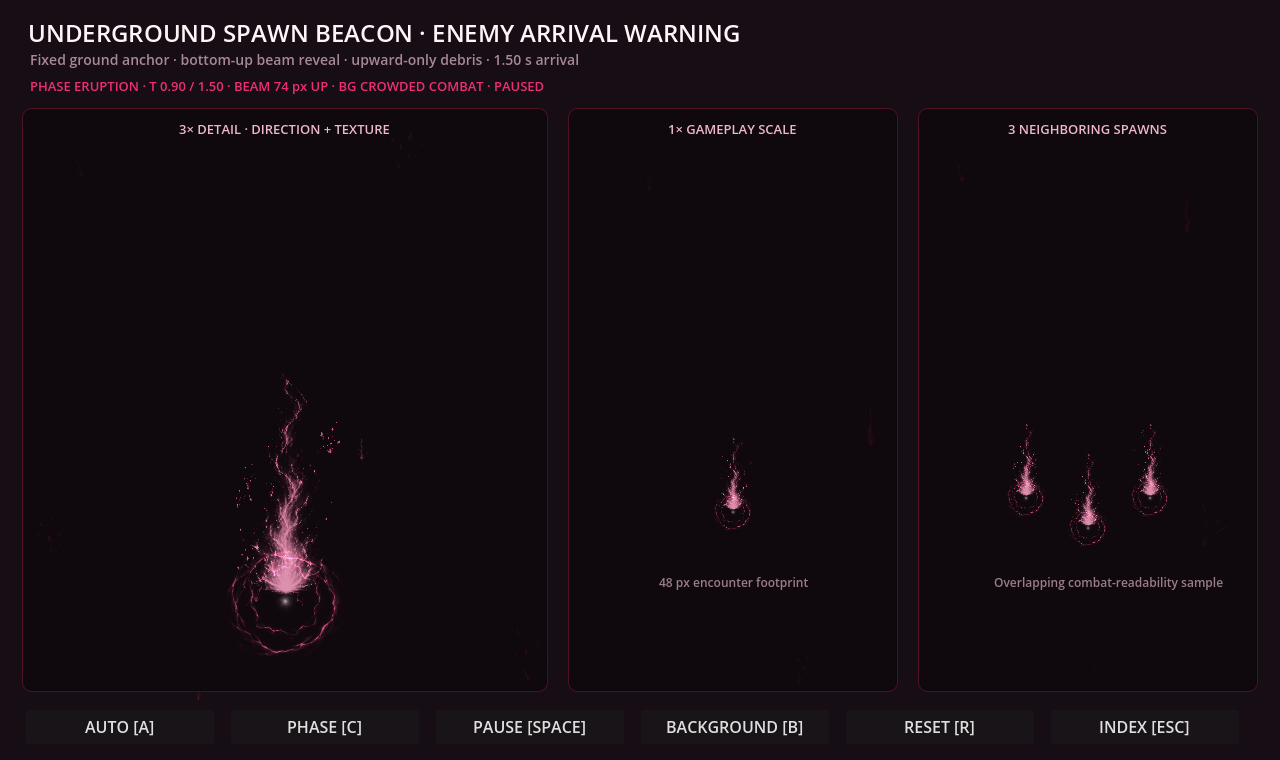
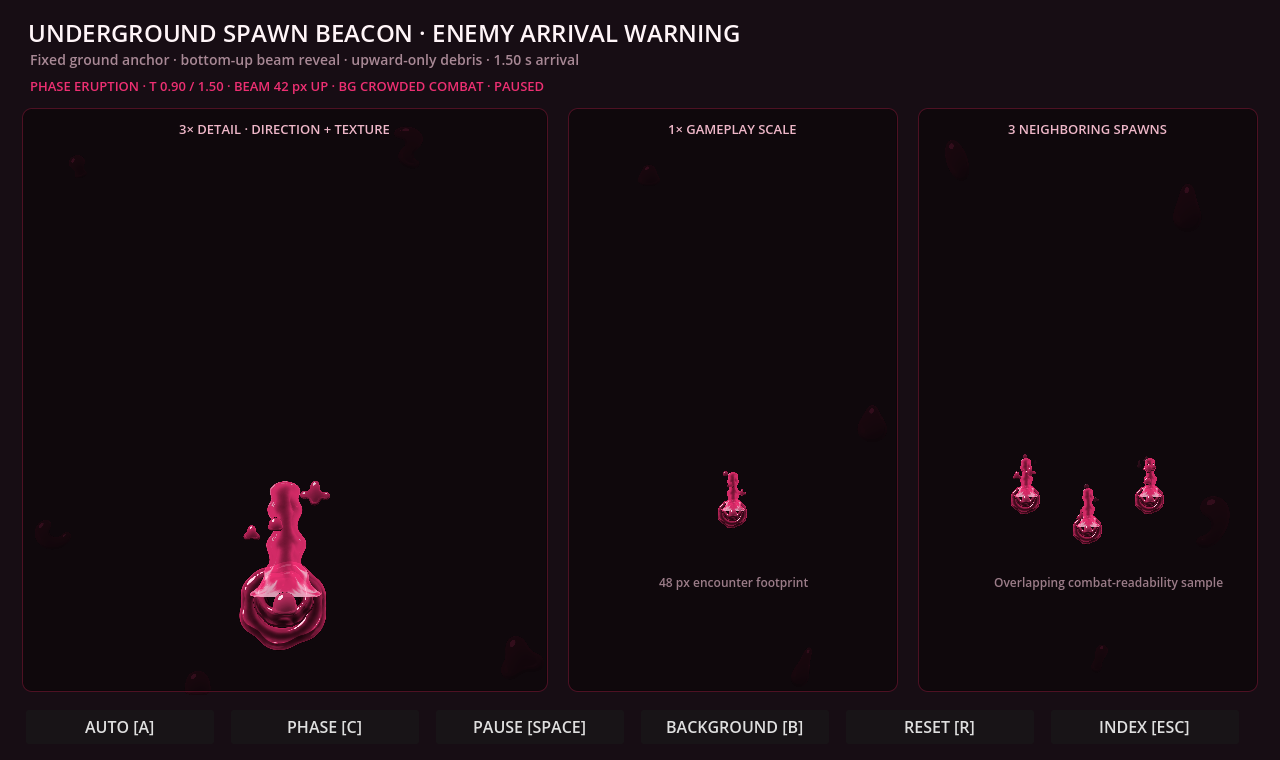
refactor(test-lab): align spawn beacon with slime style

diff --git a/output/test_lab/README.md b/output/test_lab/README.md
@@ -25,7 +25,7 @@
 
 ## 当前实验
 
-- `underground_spawn_beacon_test.tscn`：独立的“地底涌出信标”敌人出生预警实验，不修改正式 `client/`、`enemy_spawn_telegraph` cue、生成计划、Replay 或 VFX catalog。单一候选固定使用深红底光、危险粉红 `#ED2F72` 与白热核心，按 `CHARGE 0–0.45s / ERUPTION 0.45–1.25s / BREAKOUT 1.25–1.50s / REST 1.50–1.75s` 播放：柔边地面圈和暗井先受压收束，光柱节点始终锚在地面且只由 Shader 从底部向上揭示，纹理碎光与尘雾只向上或外上移动，最后外圈扩散并短促爆亮。1280×760 场景同时放置 3× 细节、1× 实战和三个相邻出生点；`A / Space / R` 控制自动、暂停和复位，`C` 固定三阶段，`B` 切换暗底 / 低对比意识层 / 拥挤战斗背景。三张 1254×1254 黑底灰度源 PNG 由内置 ImageGen 生成，运行时通过 `Image.load()` 外部读取并做亮度转透明、危险色换色；地面与粒子素材采用 4×4 逻辑图集，`style_pack.json` 保存精确提示词、尺寸、SHA-256 和修订记录。效果主体不使用正式 `RingGeometry`、`_draw()`、`Polygon2D` 或 `Line2D`，场景也不嵌入图片数据。第一眼地底生成语义、与传送 / 攻击范围 / 奖励的区分、1× 与拥挤样本可读性及爆亮时刻均保持“待用户人工验收”。
+- `underground_spawn_beacon_test.tscn`：独立的“地底涌出信标”敌人出生预警实验，不修改正式 `client/`、`enemy_spawn_telegraph` cue、生成计划、Replay 或 VFX catalog。首版写实电能圈、火焰烟柱和晶体碎片因不符合项目史莱姆风被用户否决；当前版本改用深红胶体反边、危险粉红 `#ED2F72` 软胶主体、窄幅白色湿润高光，按 `CHARGE 0–0.45s / ERUPTION 0.45–1.25s / BREAKOUT 1.25–1.50s / REST 1.50–1.75s` 播放：两层宽瓣胶膜与暗色胶体凹井先受压收束，64 px 钝头拉丝胶柱从固定地面锚点向上生长，最多五枚大圆胶滴向上或外上运动，最后外胶膜与软胶瓣扩散并短促爆亮；不再使用电裂纹、火焰、烟雾、晶体尖片或微粒火星。1280×760 场景同时放置 3× 细节、1× 实战和三个相邻出生点；`A / Space / R` 控制自动、暂停和复位，`C` 固定三阶段，`B` 切换暗底 / 低对比意识层 / 拥挤战斗背景。三张 1254×1254 黑底灰度源 PNG 由内置 ImageGen 参照 `player_slime_fusion_test.png` 重生成，运行时通过 `Image.load()` 外部读取并做亮度转透明、史莱姆危险色换色；地面与液滴素材采用 4×4 逻辑图集，`style_pack.json` 保存精确提示词、尺寸、SHA-256 和两轮修订记录。效果主体不使用正式 `RingGeometry`、`_draw()`、`Polygon2D` 或 `Line2D`，场景也不嵌入图片数据。史莱姆风统一度、第一眼地底生成语义、与传送 / 攻击范围 / 奖励的区分、1× 与拥挤样本可读性及爆亮时刻均保持“待用户人工验收”。
 - `organic_vfx_pipeline_selection_test.tscn`：独立的“有机心象脉冲”非几何 VFX 管线选型墙，不修改正式 `client/`、`visual_effects.json` 或 VFX catalog。A / B / C / D 依次比较 AI 灰度序列帧、绘制纹理粒子、灰度有机流场 + 流动 / 溶解 Shader，以及三者混合合成；四套候选共享冷静青 `#68BCDD`、愤怒粉 `#ED2F72`、白热高光、48 px 核心半径、72 px 最大装饰外延和 `CHARGE 0–0.48s / CONTACT 0.48–0.64s / AFTERMATH 0.64–1.20s / REST 1.20–1.44s` 时间轴。每张卡同时提供裁切的 2.5× 细节视窗和完整 1× 实战尺寸；`A / Space / R` 控制自动、暂停和复位，`C` 固定三阶段，`P` 切换主配色，`B` 切换暗底 / 低对比意识层 / 拥挤战斗背景，`1–4 / 0` 聚焦候选或回到总览，`D` 只显示不计入效果画面的 48 px 诊断圈。三张 1254×1254 黑底灰度源 PNG 由内置 ImageGen 生成并通过 `Image.load()` 外部加载；`style_pack.json` 保存精确提示词、尺寸和 SHA-256，4×4 图集按归一化 UV 与四舍五入单元边界运行时使用，不依赖 `.godot/imported`。候选主体不使用 `_draw()`、`Polygon2D`、`Line2D` 或正式库 Ring / Wedge / Ray 原语；`organic_vfx_pipeline_selection_smoke.gd` 覆盖资产 / manifest、统一接口与时间轴、绝对时间定位、粒子清理、节点稳定、交互状态和非几何源码门禁，截图脚本生成总览及三阶段共四张 1280×760 预览。1× 可读性、三阶段语义、有机质感、动态自然度、战斗背景表现，以及最终选择 A / B / C / D 或两种组合均保持“待用户人工验收”。
 - `player_slime_fusion_test.tscn`：正式玩家改造前的独立人工门禁原型，不修改 `client/`。实战样本固定 `r=25`，旁边同时显示 `r=12` 的正式史莱姆子弹尺寸参考；两份 4.35× 放大样本常驻展示“冷静主 / 愤怒副”和“愤怒主 / 冷静副”，每个碎片只向史莱姆视觉提供一个 primary，当前为冷静 `#68BCDD`、愤怒 `#ED2F72`。每个玩家史莱姆只有 20 个环形控制点，每角固定 5 次有界二次曲线采样，最终共享 100 点边界给 `Body / Outline / WetRim`；外缘由 3 px 主碎片色边叠 1 px 主色提亮湿润边，单点速度、径向 / 切向位移、邻点速度与位移差、面积压力及最终轮缘都受限，开火和受击冲击只分散到连续 5 点，包含最宽轮缘的最终 extent 不得超过 25 px。`player_slime_dual_vortex.gdshader` 从角色本地 `VERTEX` 坐标生成 50/50 双涡旋：主 / 副智能碎片各用自身 primary，主色流顺时针、副色流逆时针；内部轮缘、外部 Outline 和中心到 38 px 枪口的常驻双端渐隐短束统一使用主碎片 primary，不再读取 secondary / accent，也不使用 `SCREEN_UV`、眼睛、箭头或长瞄准线。场景默认自动移动、开火、受击和交换实际样本；WASD / 方向键移动，左键或 `F` 开火，`H` 受击，`X` 交换实际样本主副，`Space` 暂停，`T` 切换自动演示，`R` 复位，`Esc` 返回索引。`player_slime_fusion_smoke.gd` 检查 20 / 100 点契约、仅两个 primary 运行时槽、主色轮缘 / 光束、3 / 1 px 轮缘宽度、25 px 轮缘上限、面积 / 转角 / 邻点连续性、连续移动 / 开火 / 受击、暂停冻结、五点冲击、38 px 光束、节点 / 材质稳定与固定步进确定性；`capture_player_slime_fusion.gd` 以固定步进和离开常驻光束的体内像素探针生成预览。双涡旋是否明确读成两股气、交换是否可辨、光束方向、动态尖点和与 12 px 子弹的实战区分均保持“待用户人工验收”；用户明确确认前不得接入正式 `client/`。
 - `anchored_star_enemies_test.tscn`：三个自动移动的圆形敌人共享同一个 `ShaderMaterial`，内部程序化星点和星云只从 `SCREEN_UV` 采样；敌人的圆形 Polygon 只充当移动遮罩，因此敌人位移不会拖动星空，而是像三个窗口滑过同一片固定空间。三种半径和敌对轮缘色用于区分个体，运动轨迹与背景坐标标记用于观察位移，星点只做亮度闪烁而不平移 / 旋转。`Space` 暂停 / 继续，`R` 复位，`Esc` 返回索引。`anchored_star_enemies_smoke.gd` 自动检查三个敌人、共享材质、`SCREEN_UV` 锚定、实际位移和暂停冻结；`capture_anchored_star_enemies.gd` 在确定性时间点生成预览图。圆形敌人辨识度、透视感和星空密度仍待用户人工验收。

diff --git a/docs/AI记忆/会话日志/2026-08-05.md b/docs/AI记忆/会话日志/2026-08-05.md
@@ -67,8 +67,8 @@
 ## 地底涌出信标敌人出生预警实验
 
 - 用户否定“心象胚胎、敌影成形、从上方降临”的出生预警语义，要求改为地面圈、暗井和由地面向上生长的光柱。新实验只放在 `output/test_lab`，不修改正式 `enemy_spawn_telegraph` cue、`presentation_module_encounter`、`ground_telegraph.tscn`、生成计划、Run、Replay 或 VFX catalog。
-- 时间轴固定为 `CHARGE 0–0.45s / ERUPTION 0.45–1.25s / BREAKOUT 1.25–1.50s / REST 1.50–1.75s`。蓄能阶段两层柔边不规则圈从 28 / 42 px 向中心收束并加深约 20 px 暗井；涌出阶段光柱节点位置与地面锚点固定，只由 Shader 自底向上揭示；破土阶段内圈消失、外圈扩散、柱体加宽爆亮，碎片只向上或外上运动。
-- 内置 ImageGen 分别生成 4×4 地面能量图集、单张底部锚定上涌光柱和 4×4 碎光 / 尘雾图集，三张源 PNG 均为 1254×1254 黑底灰度。运行时通过 `Image.load()` 读取，由 Shader 完成亮度转透明、深红 / 危险粉红 `#ED2F72` / 白热换色和底部揭示；`style_pack.json` 保存精确提示词、尺寸、SHA-256 与一次生成即满足约束的修订记录，不声称原生透明背景。
+- 时间轴固定为 `CHARGE 0–0.45s / ERUPTION 0.45–1.25s / BREAKOUT 1.25–1.50s / REST 1.50–1.75s`。按用户反馈重做后，蓄能阶段两层软胶膜从 18 / 26 px 向中心收束并加深约 16 px 胶体凹井；涌出阶段 64 px 钝头胶柱的节点位置与地面锚点固定，只由 Shader 自底向上揭示；破土阶段内圈消失、外胶膜和软胶瓣扩散、柱体短促爆亮，少量圆头胶滴只向上或外上运动。
+- 首版 ImageGen 素材采用写实电能圈、火焰烟柱和晶体碎片，用户明确指出与项目史莱姆风不统一。按该反馈，以 `player_slime_fusion_test.png` 为风格参照重生成 4×4 宽瓣胶膜 / 胶井图集、单张底部连接的钝头拉丝胶柱和 4×4 单主体圆润胶滴图集；粒子首轮因单格卫星液滴过多再定向重生成一次。三张最终源 PNG 均为 1254×1254 黑底灰度，运行时通过 `Image.load()` 读取，由 Shader 完成亮度转透明、深红胶体反边 / 危险粉红 `#ED2F72` 主体 / 窄幅白色湿润高光换色和底部揭示；`style_pack.json` 保存最终提示词、尺寸、SHA-256 与三段修订历史，不声称原生透明背景。
 - 1280×760 预览同时展示 3× 细节、1× 实战和三个相邻出生点，支持自动 / 暂停 / 复位、固定三阶段与暗底 / 低对比意识层 / 拥挤战斗三背景。纹理粒子使用固定数量节点和绝对时间位置，不在播放中增删节点；场景与效果主体不使用正式 `RingGeometry`、`_draw()`、`Polygon2D`、`Line2D`、嵌入式 `Image` 或 `PackedByteArray`。
-- 专项 smoke 已覆盖 manifest / 哈希 / 4×4 切片、1.50 秒阶段、绝对定位、暂停 / 复位、剩余时长比例缩放、固定光柱节点位置、可见高度单调增加、粒子不低于地面、REST 清空、五实例与多轮节点稳定、三背景、索引入口和非几何源码门禁。四张 1280×760 截图只作为机器实现证据；第一眼地底生成语义、与传送 / 攻击范围 / 机关 / 奖励的区分、1× / 拥挤可读性和爆亮时刻继续标记“待用户人工验收”，AI 不代验；未运行性能 probe。
-- Godot 4.7.1 Test Lab headless boot、实验与索引显式加载、三档 lint、JSON、文档健康、`git diff --check` 和完整 pre-commit 均通过。提交前事实审查发现并修复破土阶段白热混合度残留到下一轮蓄能的问题，并补上三背景实际可见节点断言；最终无未处理 P0 / P1 / P2 问题。
+- 专项 smoke 已覆盖 manifest / 哈希 / 4×4 切片、1.50 秒阶段、绝对定位、暂停 / 复位、剩余时长比例缩放、固定胶柱节点位置、可见高度单调增加、五枚胶滴不低于地面、REST 清空、五实例与多轮节点稳定、三背景、索引入口和非几何源码门禁。四张 1280×760 截图只作为机器实现证据；史莱姆风统一度、第一眼地底生成语义、与传送 / 攻击范围 / 机关 / 奖励的区分、1× / 拥挤可读性和爆亮时刻继续标记“待用户人工验收”，AI 不代验；未运行性能 probe。
+- 史莱姆风修正版已通过 Godot 4.7.1 Test Lab headless boot、实验与索引显式加载、专项 smoke、四张 1280×760 捕获、三档 lint、JSON、文档健康、禁用几何 / 嵌图扫描、`git diff --check` 和完整 pre-commit；semantic advisory 无 warning。事实审查确认底部揭示、阶段清理、固定节点数、manifest 哈希与正式 `client` 隔离均无未处理 P0 / P1 / P2 问题。史莱姆风统一度与出生语义仍只交用户人工复验。

diff --git a/docs/AI记忆/项目记忆.md b/docs/AI记忆/项目记忆.md
@@ -128,7 +128,7 @@
 
 | 日期 | 摘要 | 详见 |
 |------|------|------|
-| 2026-08-05 | 完成双涡旋史莱姆、枪口闪光 / 旧回退 / 弹药系统退役（ADR #183–#186）；新增不改正式 client 的有机心象四管线选型墙，并按用户后续方向制作“地底涌出信标”敌人出生预警 Test Lab，等待用户人工判断地底生成语义 | [`会话日志/2026-08-05.md`](会话日志/2026-08-05.md) |
+| 2026-08-05 | 完成双涡旋史莱姆、枪口闪光 / 旧回退 / 弹药系统退役（ADR #183–#186）；新增不改正式 client 的有机心象四管线选型墙，并制作“地底涌出信标”敌人出生预警 Test Lab；首版写实电能语言被用户否决后，已重做为宽瓣胶膜、钝头拉丝胶柱和少量圆润胶滴，等待用户人工复验史莱姆风与地底生成语义 | [`会话日志/2026-08-05.md`](会话日志/2026-08-05.md) |
 | 2026-07-30 | 修正弹药 HUD；通过 ADR #178 重构 `WASD` 集体无意识设定，并由 ADR #179 完成清理智能 / 智能碎片 / 心象 / 意识核玩家文案迁移、失序阶段、清理统计和标题副标隐藏 | [`会话日志/2026-07-30.md`](会话日志/2026-07-30.md) |
 | 2026-07-29 | ADR #171~#177：突击枪手、五类世界事件、人工检查边界、敌人金币公式 / 难度接口、VFX 质量退役与枪械弹药 / 换弹落地；Run 升 v11，Replay v3 黄金基线同步 | [`会话日志/2026-07-29.md`](会话日志/2026-07-29.md) |
 | 2026-07-28 | ADR #166~#169：威胁时间、瞄准引导镜头与 reduced motion 退役后，局内 XP 改为金币驱动等级成长，通用奖励选择与等级解耦，Run 升 v7、Replay v3 四条黄金基线重录 | [`会话日志/2026-07-28.md`](会话日志/2026-07-28.md) |
